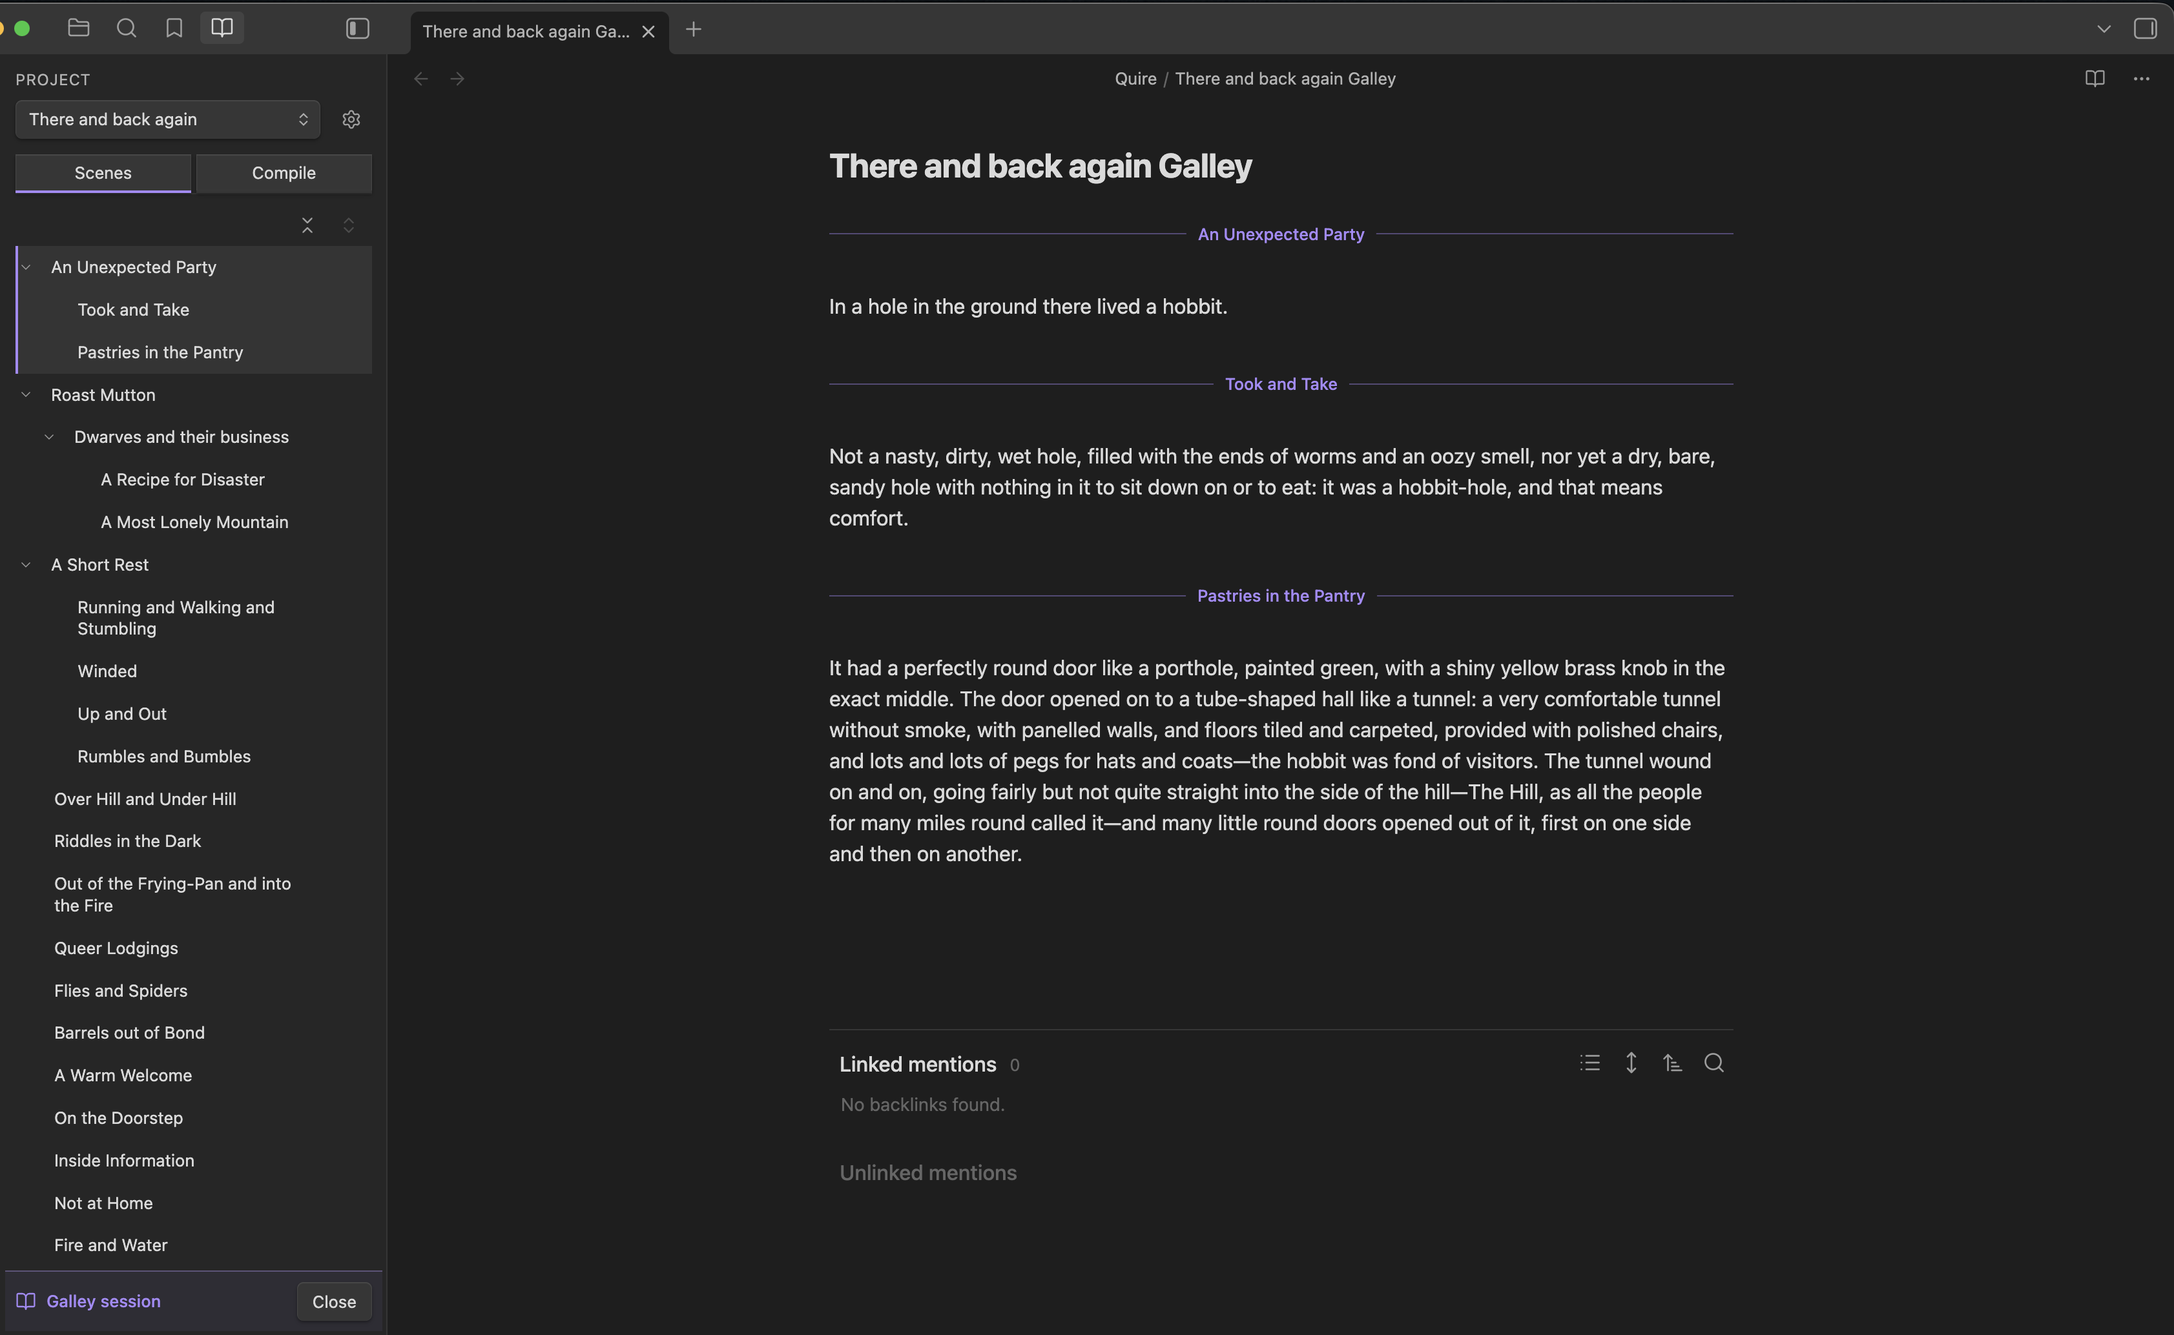
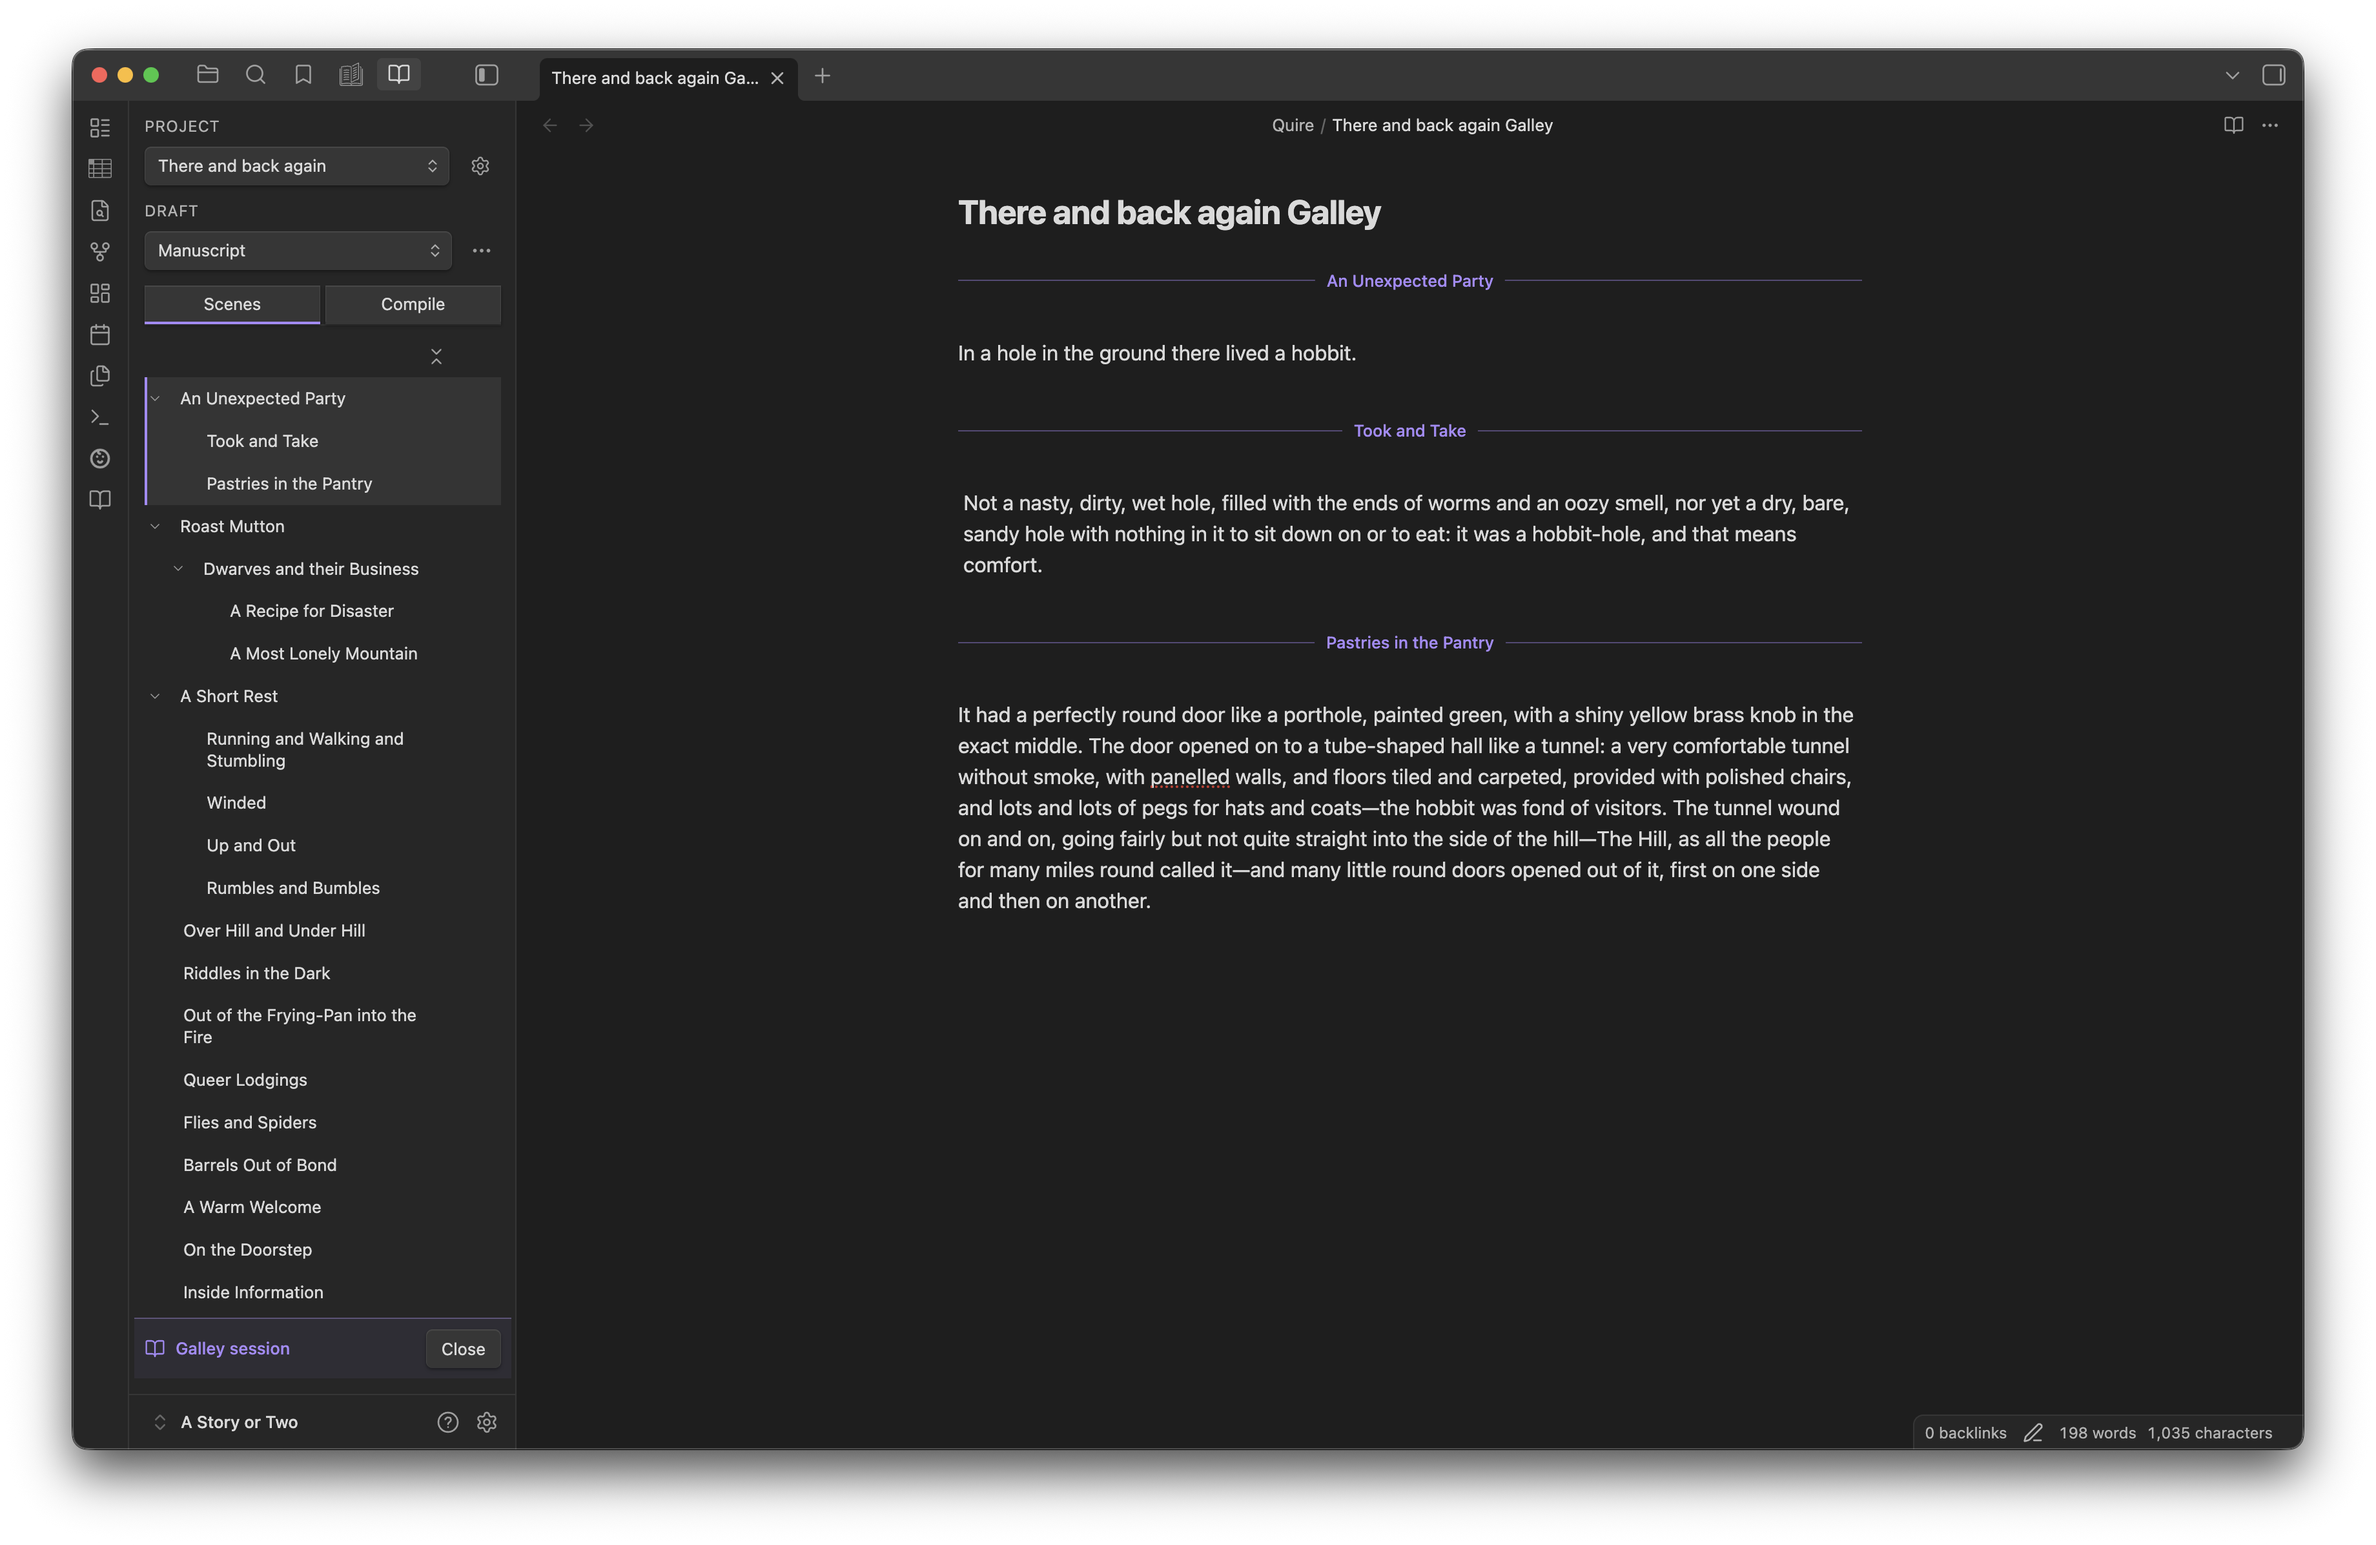
Docs: fresh screenshots from 1.2.1 across the guides
The Galley hero, Compile tab, scene list, scene menu, and ignored scenes panel are retaken on the current interface, and the guides gain visuals where they had none: the drafts menu and New draft dialog, plus a new Project Settings section in Projects and Scenes covering the in-pane rename and the per-project scene template. The unreferenced new-project-menu image is removed.

diff --git a/docs/03-the-scene-list.md b/docs/03-the-scene-list.md
@@ -3,6 +3,8 @@
 The Quire pane shows your project as a list of scenes in reading order. This is
 where you shape the draft: reorder, nest, group, and set scenes aside.
 
+![The scene list: nested scenes with disclosure arrows, a parent and two of its scenes selected](../images/scene-list.png)
+
 ## Reorder and Nest
 
 Drag a scene to move it. Quire reads where you drop it, so reordering and nesting
@@ -40,6 +42,8 @@ a scene it is also left out of any [Compile](05-compile.md). Ignored files
 collect in their own panel, where **Restore** brings one back into the project as
 a scene.
 
+![The ignored scenes panel listing an ignored file with a Restore button](../images/ignored-scenes.png)
+
 To keep a scene in the project but leave it out of a single export, exclude it in
 the Compile tab instead. See [Compile](05-compile.md).
 
@@ -48,3 +52,5 @@ the Compile tab instead. See [Compile](05-compile.md).
 Every scene's menu gathers its actions in one place: open in a Galley, rename,
 insert a scene above or below, move and indent, ignore, and delete. The same
 actions apply to a multi-selection wherever they make sense.
+
+![The scene menu open on a three-scene selection, with Galley, draft, move, ignore, and delete actions](../images/scene-menu.png)

diff --git a/docs/13-drafts.md b/docs/13-drafts.md
@@ -6,6 +6,8 @@ without touching the version you trust. Your main version is the **manuscript**.
 A draft is a real copy of the scenes you choose, so the two live side by side,
 and nothing you do in one changes the other until you say so.
 
+![The Draft row's menu: new draft, rename, promote to manuscript, delete, and merge scenes](../images/draft-menu.png)
+
 ## Create a Draft
 
 In the Quire pane, every project shows a **Draft** row. Open its **⋯** menu and
@@ -13,6 +15,8 @@ choose **New draft**, or run the **New draft** command. Quire suggests a name
 ("Draft 2", counting up) and asks which scenes to copy. All of them are selected
 to start. Checking or unchecking a parent carries its children, and you can
 uncheck a child while keeping its parent.
+
+![The New draft dialog: a name field and a checklist of scenes to copy](../images/new-draft-modal.png)
 
 To start a draft from just the scenes you are reworking, select them in the
 scene list and choose **New draft from selection** from the scene menu. Copying

diff --git a/docs/02-projects-and-scenes.md b/docs/02-projects-and-scenes.md
@@ -38,6 +38,16 @@ From a scene you can:
 Two scenes in one project cannot share a name, because the name is the note's
 filename.
 
+## Project Settings
+
+The gear beside the project dropdown opens the project's settings in the pane.
+Rename the project there (the folder is renamed along with the title), and point
+the project at a **scene template**: a note whose contents seed every new scene
+in this project. Leave it empty to use the global template from
+[Quire's settings](09-settings.md).
+
+![Project settings in the pane: the title field with its Save button, and the scene template](../images/project-settings.png)
+
 ## The Index Is the Source of Truth
 
 The list reflects what the index records; the notes fill it in. If a scene note

diff --git a/docs/05-compile.md b/docs/05-compile.md
@@ -12,6 +12,8 @@ tab: add steps, reorder them with the up and down arrows on each step,
 and set each step's options. Quire ships a default workflow you can use as is or
 copy and adjust.
 
+![The Compile tab: a workflow's steps in order, each with its own options](../images/compile.png)
+
 Each step plays one of three roles, and steps run top to bottom:
 
 - **Scene steps** transform every scene on its own, before the scenes are joined.
